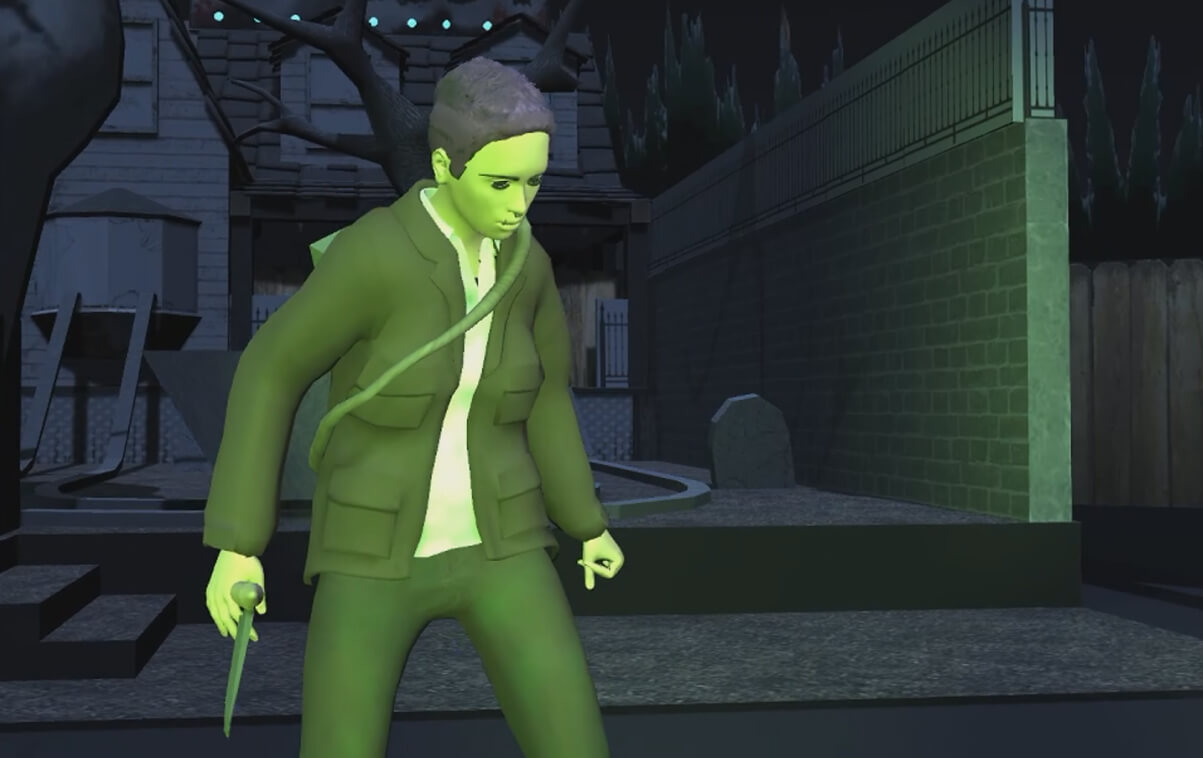
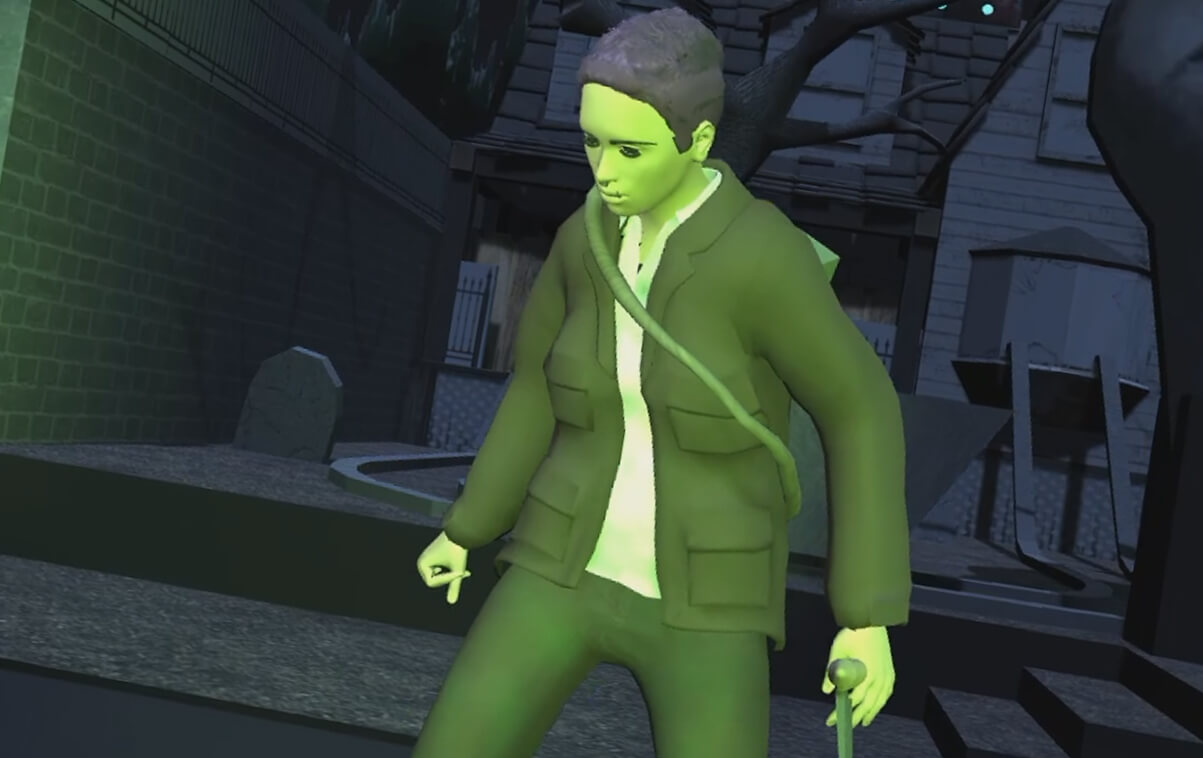
Ajout de la raie pour Kimo et des concepts arts pour Livraison en folie.

diff --git a/src/single-kimo.html b/src/single-kimo.html
@@ -115,7 +115,10 @@
 
             <section class="hero hero__single">
                 <div class="before before__single wrapper">
-                    <div class="video" style="background: url(assets/images/projets/kimo/thumbnail.jpg)"></div>
+                    <div
+                        class="video"
+                        style="background: url(assets/images/projets/kimo/thumbnail.jpg); background-size: cover"
+                    ></div>
                     <div class="title">
                         <h3>Installation interactive | Projet d'équipe</h3>
                         <h1>Kimo</h1>
@@ -540,6 +543,15 @@
                                     class="swiper-slide"
                                     data-component="Modal"
                                     data-modal-id="tpl-modal-simple"
+                                    data-modal-description="Raie"
+                                    data-modal-bg="assets/images/projets/kimo/carousel02/slide09.jpg"
+                                >
+                                    <img src="assets/images/projets/kimo/carousel02/slide09.jpg" alt="Raie" />
+                                </div>
+                                <div
+                                    class="swiper-slide"
+                                    data-component="Modal"
+                                    data-modal-id="tpl-modal-simple"
                                     data-modal-description="Calmar"
                                     data-modal-bg="assets/images/projets/kimo/carousel02/slide02.jpg"
                                 >
@@ -558,10 +570,13 @@
                                     class="swiper-slide"
                                     data-component="Modal"
                                     data-modal-id="tpl-modal-simple"
-                                    data-modal-description="Blob fish"
-                                    data-modal-bg="assets/images/projets/kimo/carousel02/slide04.jpg"
+                                    data-modal-description="Poisson baudroie"
+                                    data-modal-bg="assets/images/projets/kimo/carousel02/slide08.jpg"
                                 >
-                                    <img src="assets/images/projets/kimo/carousel02/slide04.jpg" alt="Blob fish" />
+                                    <img
+                                        src="assets/images/projets/kimo/carousel02/slide08.jpg"
+                                        alt="Poisson baudroie"
+                                    />
                                 </div>
                                 <div
                                     class="swiper-slide"
@@ -581,7 +596,15 @@
                                 >
                                     <img src="assets/images/projets/kimo/carousel02/slide06.jpg" alt="Poisson requin" />
                                 </div>
-
+                                <div
+                                    class="swiper-slide"
+                                    data-component="Modal"
+                                    data-modal-id="tpl-modal-simple"
+                                    data-modal-description="Blob fish"
+                                    data-modal-bg="assets/images/projets/kimo/carousel02/slide04.jpg"
+                                >
+                                    <img src="assets/images/projets/kimo/carousel02/slide04.jpg" alt="Blob fish" />
+                                </div>
                                 <div
                                     class="swiper-slide"
                                     data-component="Modal"
@@ -590,18 +613,6 @@
                                     data-modal-bg="assets/images/projets/kimo/carousel02/slide07.jpg"
                                 >
                                     <img src="assets/images/projets/kimo/carousel02/slide07.jpg" alt="Poisson globe" />
-                                </div>
-                                <div
-                                    class="swiper-slide"
-                                    data-component="Modal"
-                                    data-modal-id="tpl-modal-simple"
-                                    data-modal-description="Poisson baudroie"
-                                    data-modal-bg="assets/images/projets/kimo/carousel02/slide08.jpg"
-                                >
-                                    <img
-                                        src="assets/images/projets/kimo/carousel02/slide08.jpg"
-                                        alt="Poisson baudroie"
-                                    />
                                 </div>
                             </div>
                             <!-- If we need navigation buttons -->

diff --git a/src/single-livraison-en-folie.html b/src/single-livraison-en-folie.html
@@ -114,7 +114,10 @@
 
             <section class="hero hero__single">
                 <div class="before before__single wrapper">
-                    <div class="video" style="background: url(assets/images/projets/livraison/thumbnail.jpg)"></div>
+                    <div
+                        class="video"
+                        style="background: url(assets/images/projets/livraison/thumbnail.jpg); background-size: contain"
+                    ></div>
                     <div class="title">
                         <h3>Concept de jeu | Projet personnel</h3>
                         <h1>Livraison en folie</h1>
@@ -303,6 +306,32 @@
                     </div>
                     <img
                         src="assets/images/projets/livraison/image06.jpg"
+                        alt="Croquis pour les pouvoirs"
+                        data-scrolly="fromBottom"
+                    />
+                </div>
+            </section>
+
+            <section class="single--image">
+                <div class="wrapper">
+                    <div class="text">
+                        <div class="title" data-scrolly="fromLeft">
+                            <h2>Art conceptuel</h2>
+                        </div>
+                        <div class="explications" data-scrolly="fromLeftDelay">
+                            <p>
+                                Par la suite, j'ai exploré la direction artistique du jeu, d'abord en créant un
+                                <span class="bold highlight">moodboard</span>, puis en dessinant de l'art conceptuel
+                                pour les différents éléments du jeu. Comme le thème est la livraison, j'ai voulu jouer
+                                avec <span class="bold highlight">les textures du carton et du papier</span>,
+                                représentant les lettres et les boîtes livrées par la poste. Aussi, la vision artistique
+                                est, en partie, inspirée du
+                                <span class="bold highlight">scrapbooking que je faisais quand j'étais petite</span>.
+                            </p>
+                        </div>
+                    </div>
+                    <img
+                        src="assets/images/projets/livraison/image07.jpg"
                         alt="Croquis pour les pouvoirs"
                         data-scrolly="fromBottom"
                     />

diff --git a/src/page-projects.html b/src/page-projects.html
@@ -325,7 +325,10 @@
                 <div class="wrapper" data-component="Grid" data-opacity="1">
                     <div
                         class="img grid__item"
-                        style="background-image: url(assets/images/projets/livraison/thumbnail.jpg)"
+                        style="
+                            background-image: url(assets/images/projets/livraison/image07.jpg);
+                            background-position: right;
+                        "
                     >
                         <p>4/9</p>
                     </div>
@@ -357,7 +360,8 @@
 
                         <div class="summary" data-scrolly="fromTopDelay">
                             <p>
-                                Conceptualisation d'un jeu multijoueur 3D de 2 à 4 joueurs de genre arcade et de fête.
+                                Conceptualisation d'un jeu multijoueur 3D de 2 à 4 joueurs de genre arcade et de fête
+                                sur le thème de la livraison.
                             </p>
                             <div class="content"></div>
                         </div>

diff --git a/src/scripts/components/Video.js b/src/scripts/components/Video.js
@@ -133,7 +133,7 @@ export default class Video {
   //
   unmutePlayer(evt) {
     this.player.unMute();
-    this.player.setVolume(75);
+    this.player.setVolume(50);
     this.unmuteBtn.classList.toggle('switch');
     this.muteBtn.classList.toggle('switch');
   }
